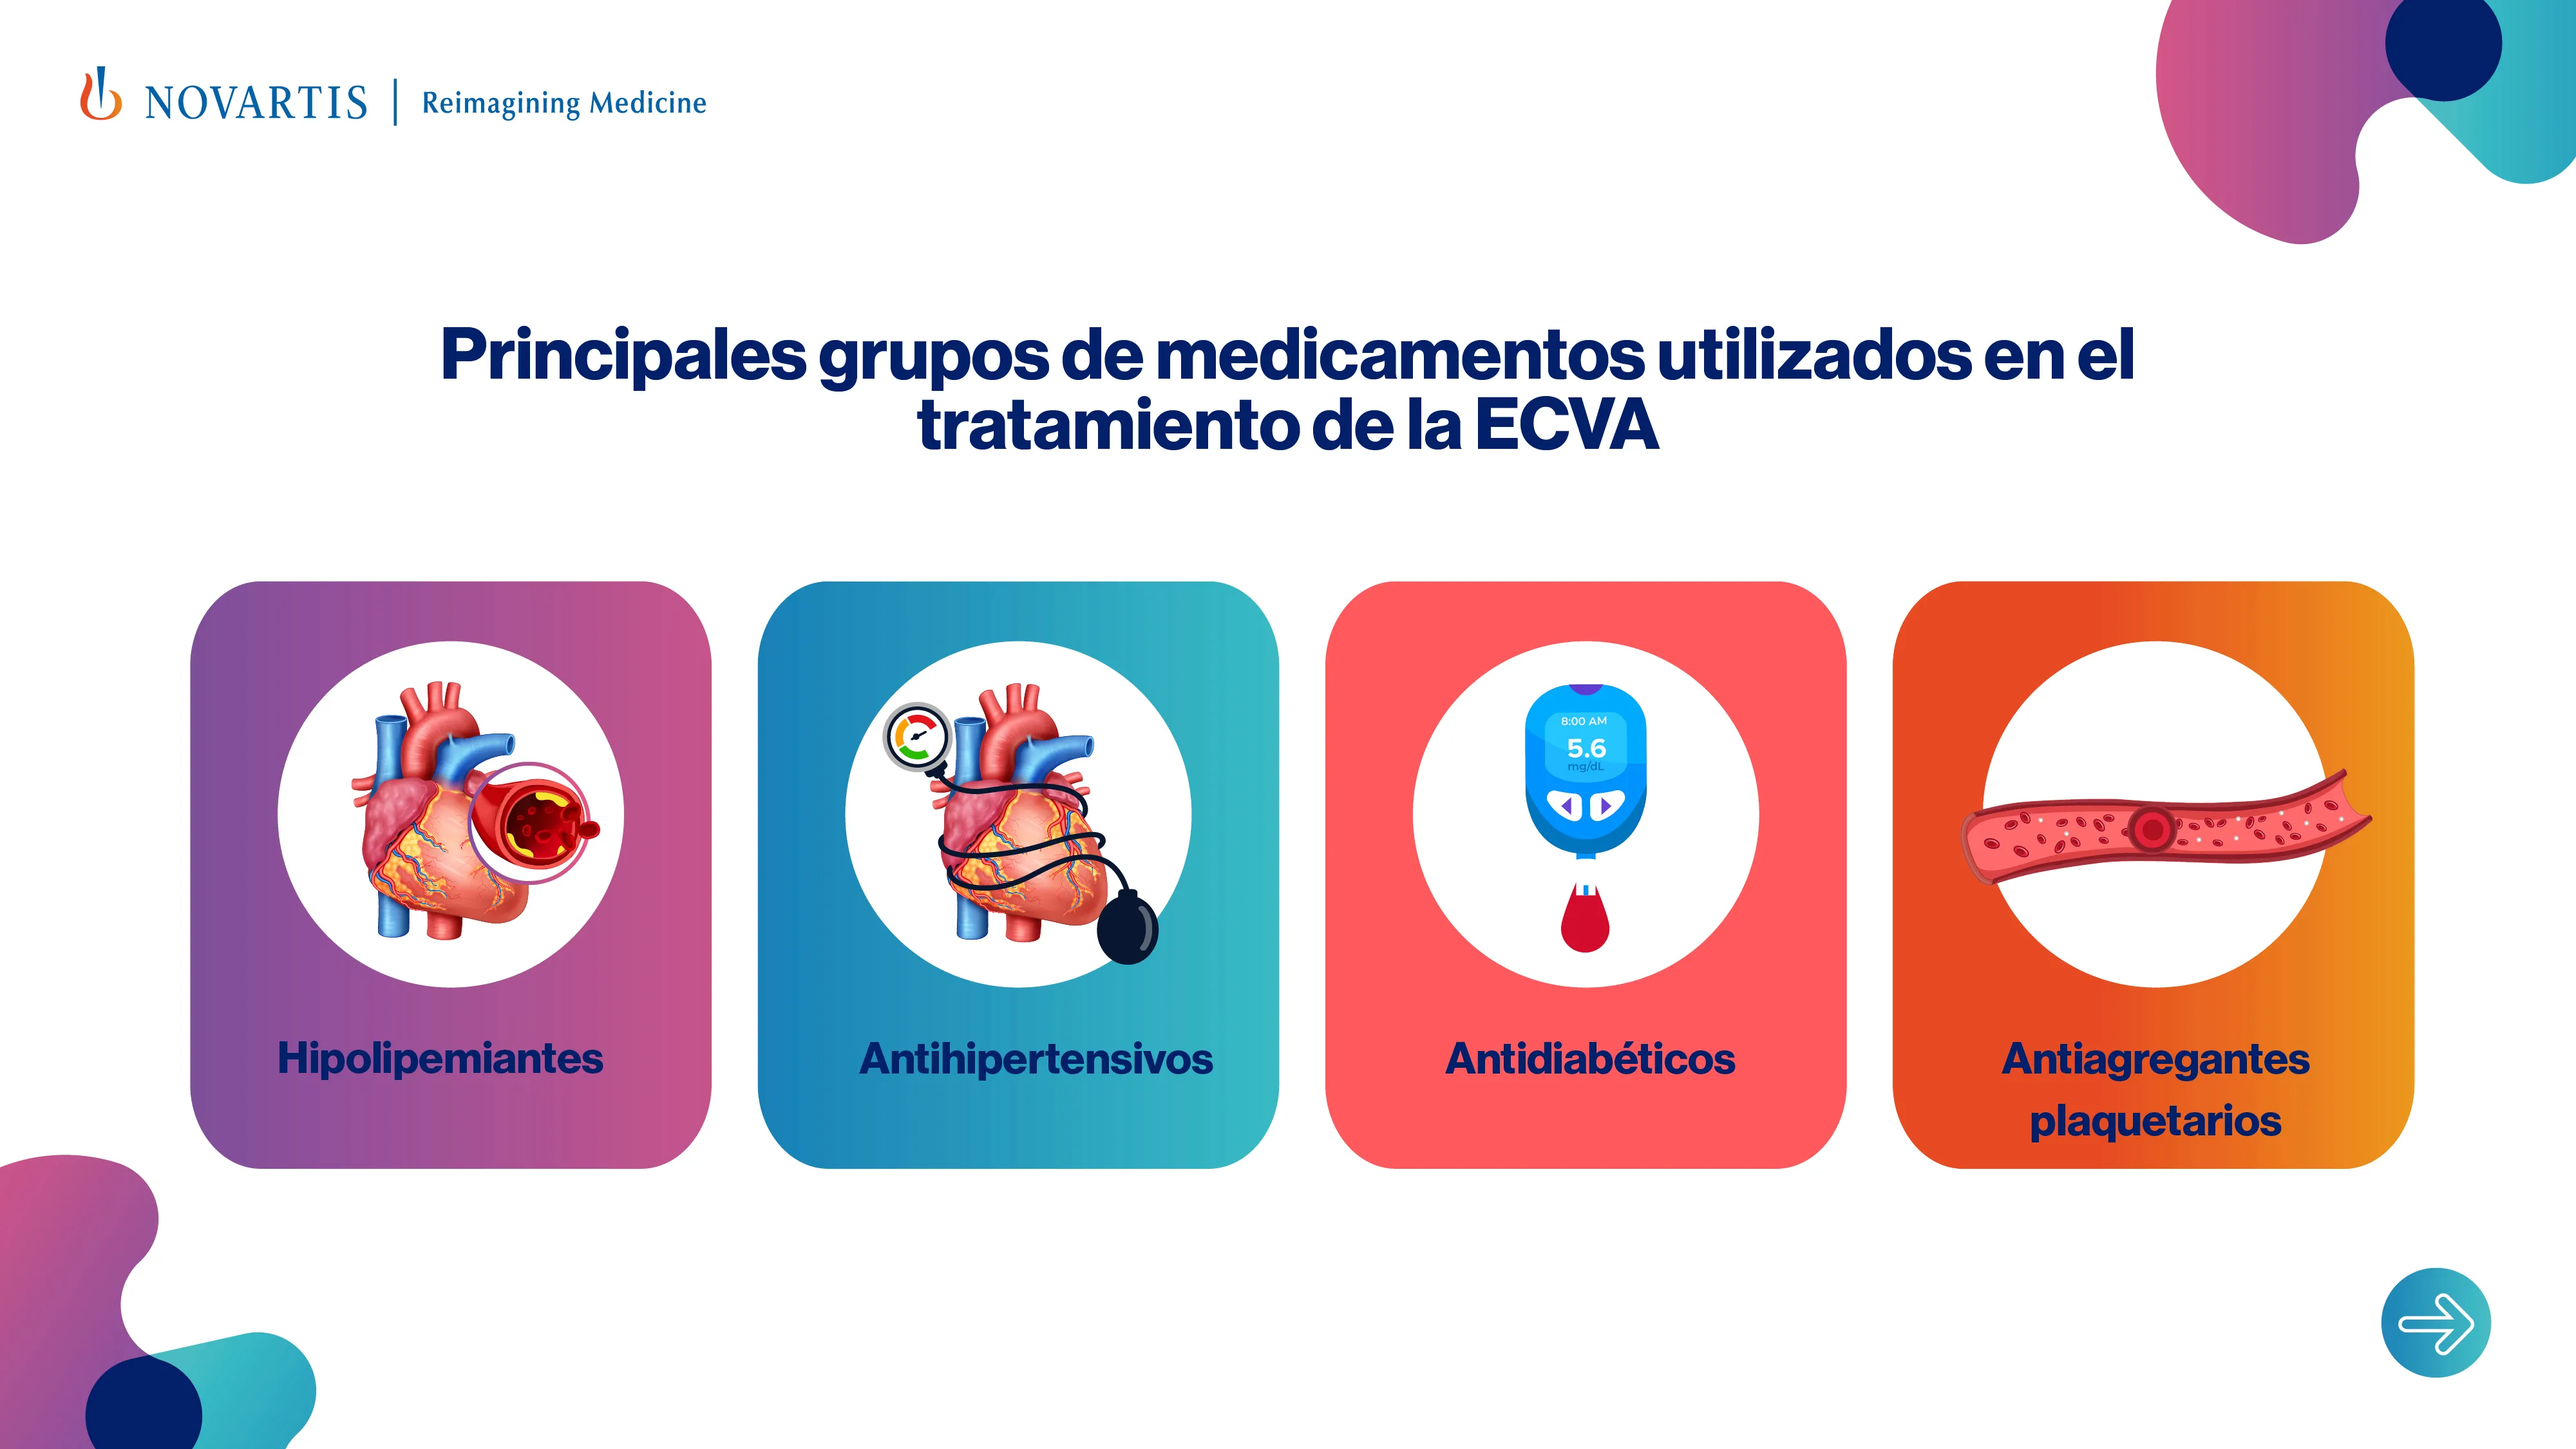
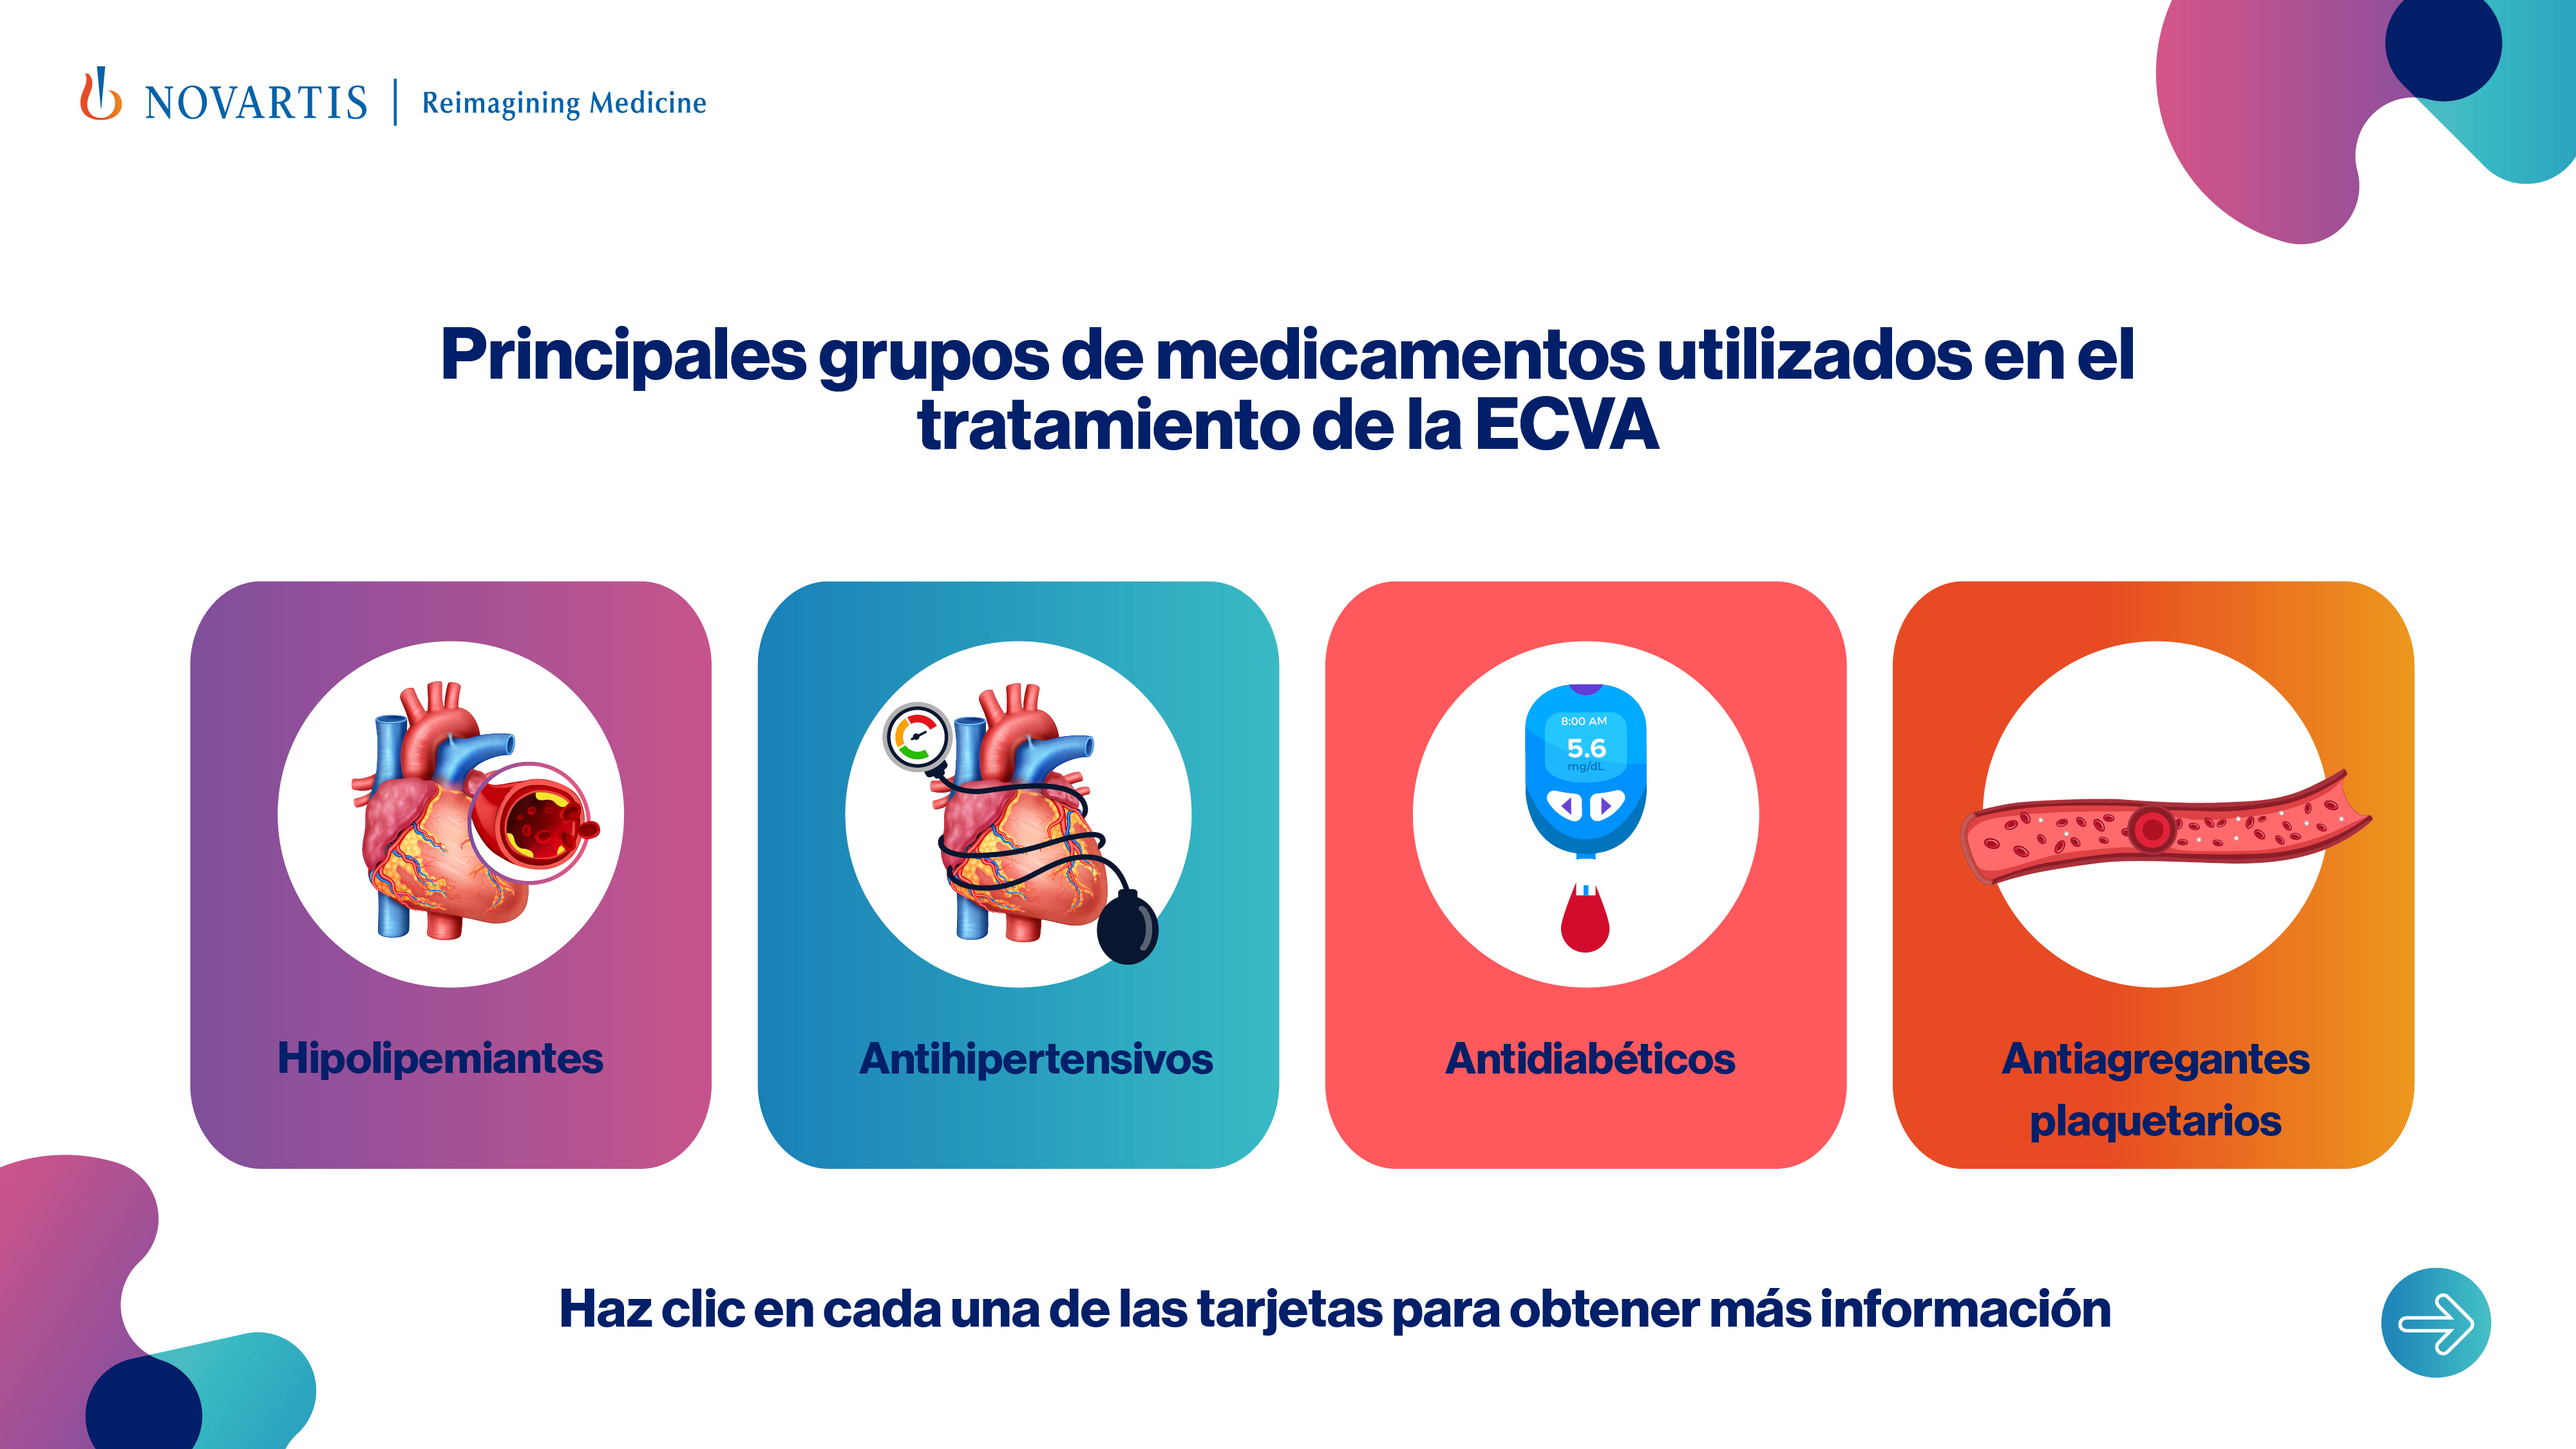
texto 1

diff --git a/css/styles354.css b/css/styles354.css
@@ -60,6 +60,135 @@ body {
 	right: 2%;
 }
 
+.puntero {
+	position: absolute;
+    width: 3.2%;
+    height: 7.4%;
+	top: 75.1%;
+    left: 24.5%;
+}
+
+.puntero img {
+	width: 100%;
+	height: 100%;
+	transform: rotate(101deg);
+}
+
+.puntero.animate__pulse {
+	animation-duration: 0.5s; /* Cambia el valor para ajustar la velocidad */
+}
+
+.puntero::before {
+	content: '';
+	position: absolute;
+	top: -10%;
+	left: -10%;
+	width: 120%;
+	height: 120%;
+	background: radial-gradient(circle, rgb(99 94 94 / 63%), #dbd0d0);
+	border-radius: 50%;
+	z-index: -1; /* Aseguramos que el resplandor esté detrás del puntero */
+	opacity: 0.7; /* Ajusta la opacidad según la intensidad del resplandor */
+	animation: pulseGlow 1.5s infinite; /* Animación para el resplandor */
+}
+
+.puntero1 {
+	position: absolute;
+    width: 3.2%;
+    height: 7.4%;
+	top: 75.1%;
+    left: 46.9%;
+}
+
+.puntero1 img {
+	width: 100%;
+	height: 100%;
+	transform: rotate(101deg);
+}
+
+.puntero1.animate__pulse {
+	animation-duration: 0.5s; /* Cambia el valor para ajustar la velocidad */
+}
+
+.puntero1::before {
+	content: '';
+	position: absolute;
+	top: -10%;
+	left: -10%;
+	width: 120%;
+	height: 120%;
+	background: radial-gradient(circle, rgb(99 94 94 / 63%), #dbd0d0);
+	border-radius: 50%;
+	z-index: -1; /* Aseguramos que el resplandor esté detrás del puntero */
+	opacity: 0.7; /* Ajusta la opacidad según la intensidad del resplandor */
+	animation: pulseGlow 1.5s infinite; /* Animación para el resplandor */
+}
+
+.puntero2 {
+	position: absolute;
+    width: 3.2%;
+    height: 7.4%;
+	top: 75.1%;
+    right: 27.9%;
+}
+
+.puntero2 img {
+	width: 100%;
+	height: 100%;
+	transform: rotate(101deg);
+}
+
+.puntero2.animate__pulse {
+	animation-duration: 0.5s; /* Cambia el valor para ajustar la velocidad */
+}
+
+.puntero2::before {
+	content: '';
+	position: absolute;
+	top: -10%;
+	left: -10%;
+	width: 120%;
+	height: 120%;
+	background: radial-gradient(circle, rgb(99 94 94 / 63%), #dbd0d0);
+	border-radius: 50%;
+	z-index: -1; /* Aseguramos que el resplandor esté detrás del puntero */
+	opacity: 0.7; /* Ajusta la opacidad según la intensidad del resplandor */
+	animation: pulseGlow 1.5s infinite; /* Animación para el resplandor */
+}
+
+.puntero3 {
+	position: absolute;
+    width: 3.2%;
+    height: 7.4%;
+	top: 75.1%;
+    right: 5.9%;
+}
+
+.puntero3 img {
+	width: 100%;
+	height: 100%;
+	transform: rotate(101deg);
+}
+
+.puntero3.animate__pulse {
+	animation-duration: 0.5s; /* Cambia el valor para ajustar la velocidad */
+}
+
+.puntero3::before {
+	content: '';
+	position: absolute;
+	top: -10%;
+	left: -10%;
+	width: 120%;
+	height: 120%;
+	background: radial-gradient(circle, rgb(99 94 94 / 63%), #dbd0d0);
+	border-radius: 50%;
+	z-index: -1; /* Aseguramos que el resplandor esté detrás del puntero */
+	opacity: 0.7; /* Ajusta la opacidad según la intensidad del resplandor */
+	animation: pulseGlow 1.5s infinite; /* Animación para el resplandor */
+}
+
+
 
 /* modal  */
 .openModal {

diff --git a/index354.html b/index354.html
@@ -57,6 +57,26 @@
 			<!-- modal 2 -->
 
 			<div class="vutom-col"></div>
+
+			<div
+				class="puntero animate__animated animate__pulse animate__infinite">
+				<img src="./imagenes/puntero.png" alt="puntero" />
+			</div>
+
+			<div
+				class="puntero1 animate__animated animate__pulse animate__infinite">
+				<img src="./imagenes/puntero.png" alt="puntero1" />
+			</div>
+
+			<div
+				class="puntero2 animate__animated animate__pulse animate__infinite">
+				<img src="./imagenes/puntero.png" alt="puntero1" />
+			</div>
+
+			<div
+				class="puntero3 animate__animated animate__pulse animate__infinite">
+				<img src="./imagenes/puntero.png" alt="puntero3" />
+			</div>
 		</div>
 
 		<!-- Scripts -->
@@ -68,9 +88,14 @@
 
 				const exist = []
 
-				slides.forEach((item) => {
+				slides.forEach((item, index) => {
 					if (localStorage.getItem(item) === 'true') {
 						exist.push(item)
+						document.querySelector(`.puntero${index === 0 ? '' : index}`).style.display = 'none'
+						if (exist.length === 4) {
+					$('.boton-next').show()
+					$('.vutom-col').hide()
+				}
 					}
 				})
 

diff --git a/js/script354.js b/js/script354.js
@@ -5,6 +5,7 @@ $(document).ready(function () {
 	$('.openModal').on('click', () => {
 		$('.modal').css('display', 'block')
 		localStorage.setItem('slide354', 'true')
+		$('.puntero').css('display', 'none')
 
 		const exist = []
 
@@ -28,6 +29,7 @@ $(document).ready(function () {
 	$('.openModal1').on('click', () => {
 		$('.modal1').css('display', 'block')
         localStorage.setItem('slide355', 'true')
+		$('.puntero1').css('display', 'none')
 
 		const exist = []
 
@@ -51,6 +53,7 @@ $(document).ready(function () {
 	$('.openModal2').on('click', () => {
 		$('.modal2').css('display', 'block')
         localStorage.setItem('slide356', 'true')
+		$('.puntero2').css('display', 'none')
 
 		const exist = []
 
@@ -74,6 +77,7 @@ $(document).ready(function () {
 	$('.openModal3').on('click', () => {
 		$('.modal3').css('display', 'block')
         localStorage.setItem('slide357', 'true')
+		$('.puntero3').css('display', 'none')
 
 		const exist = []
 
